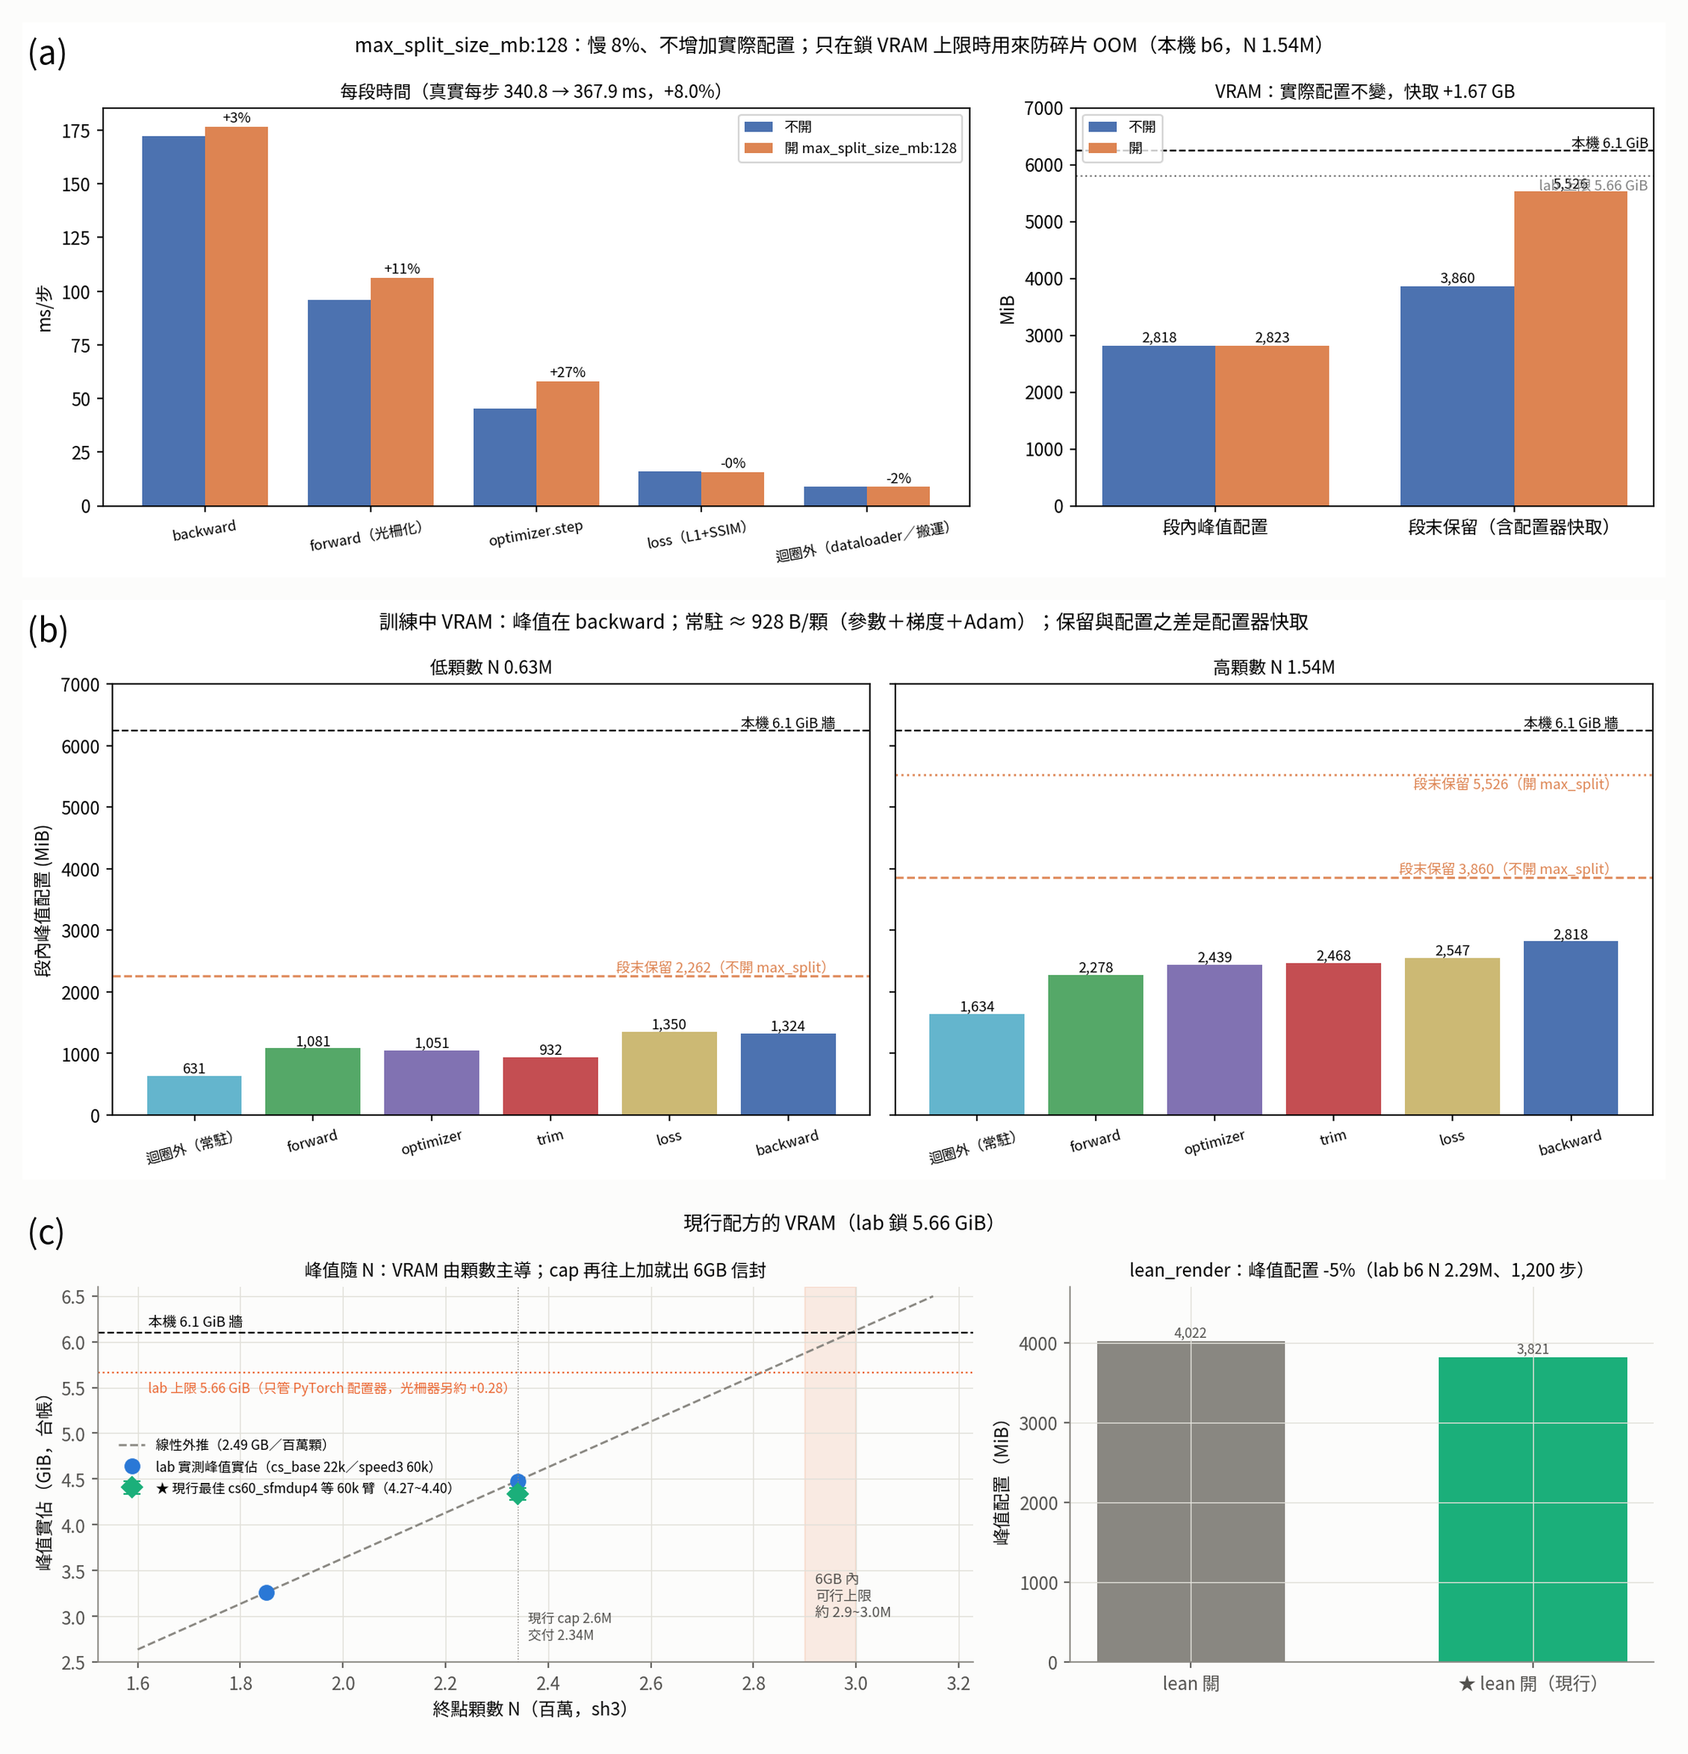
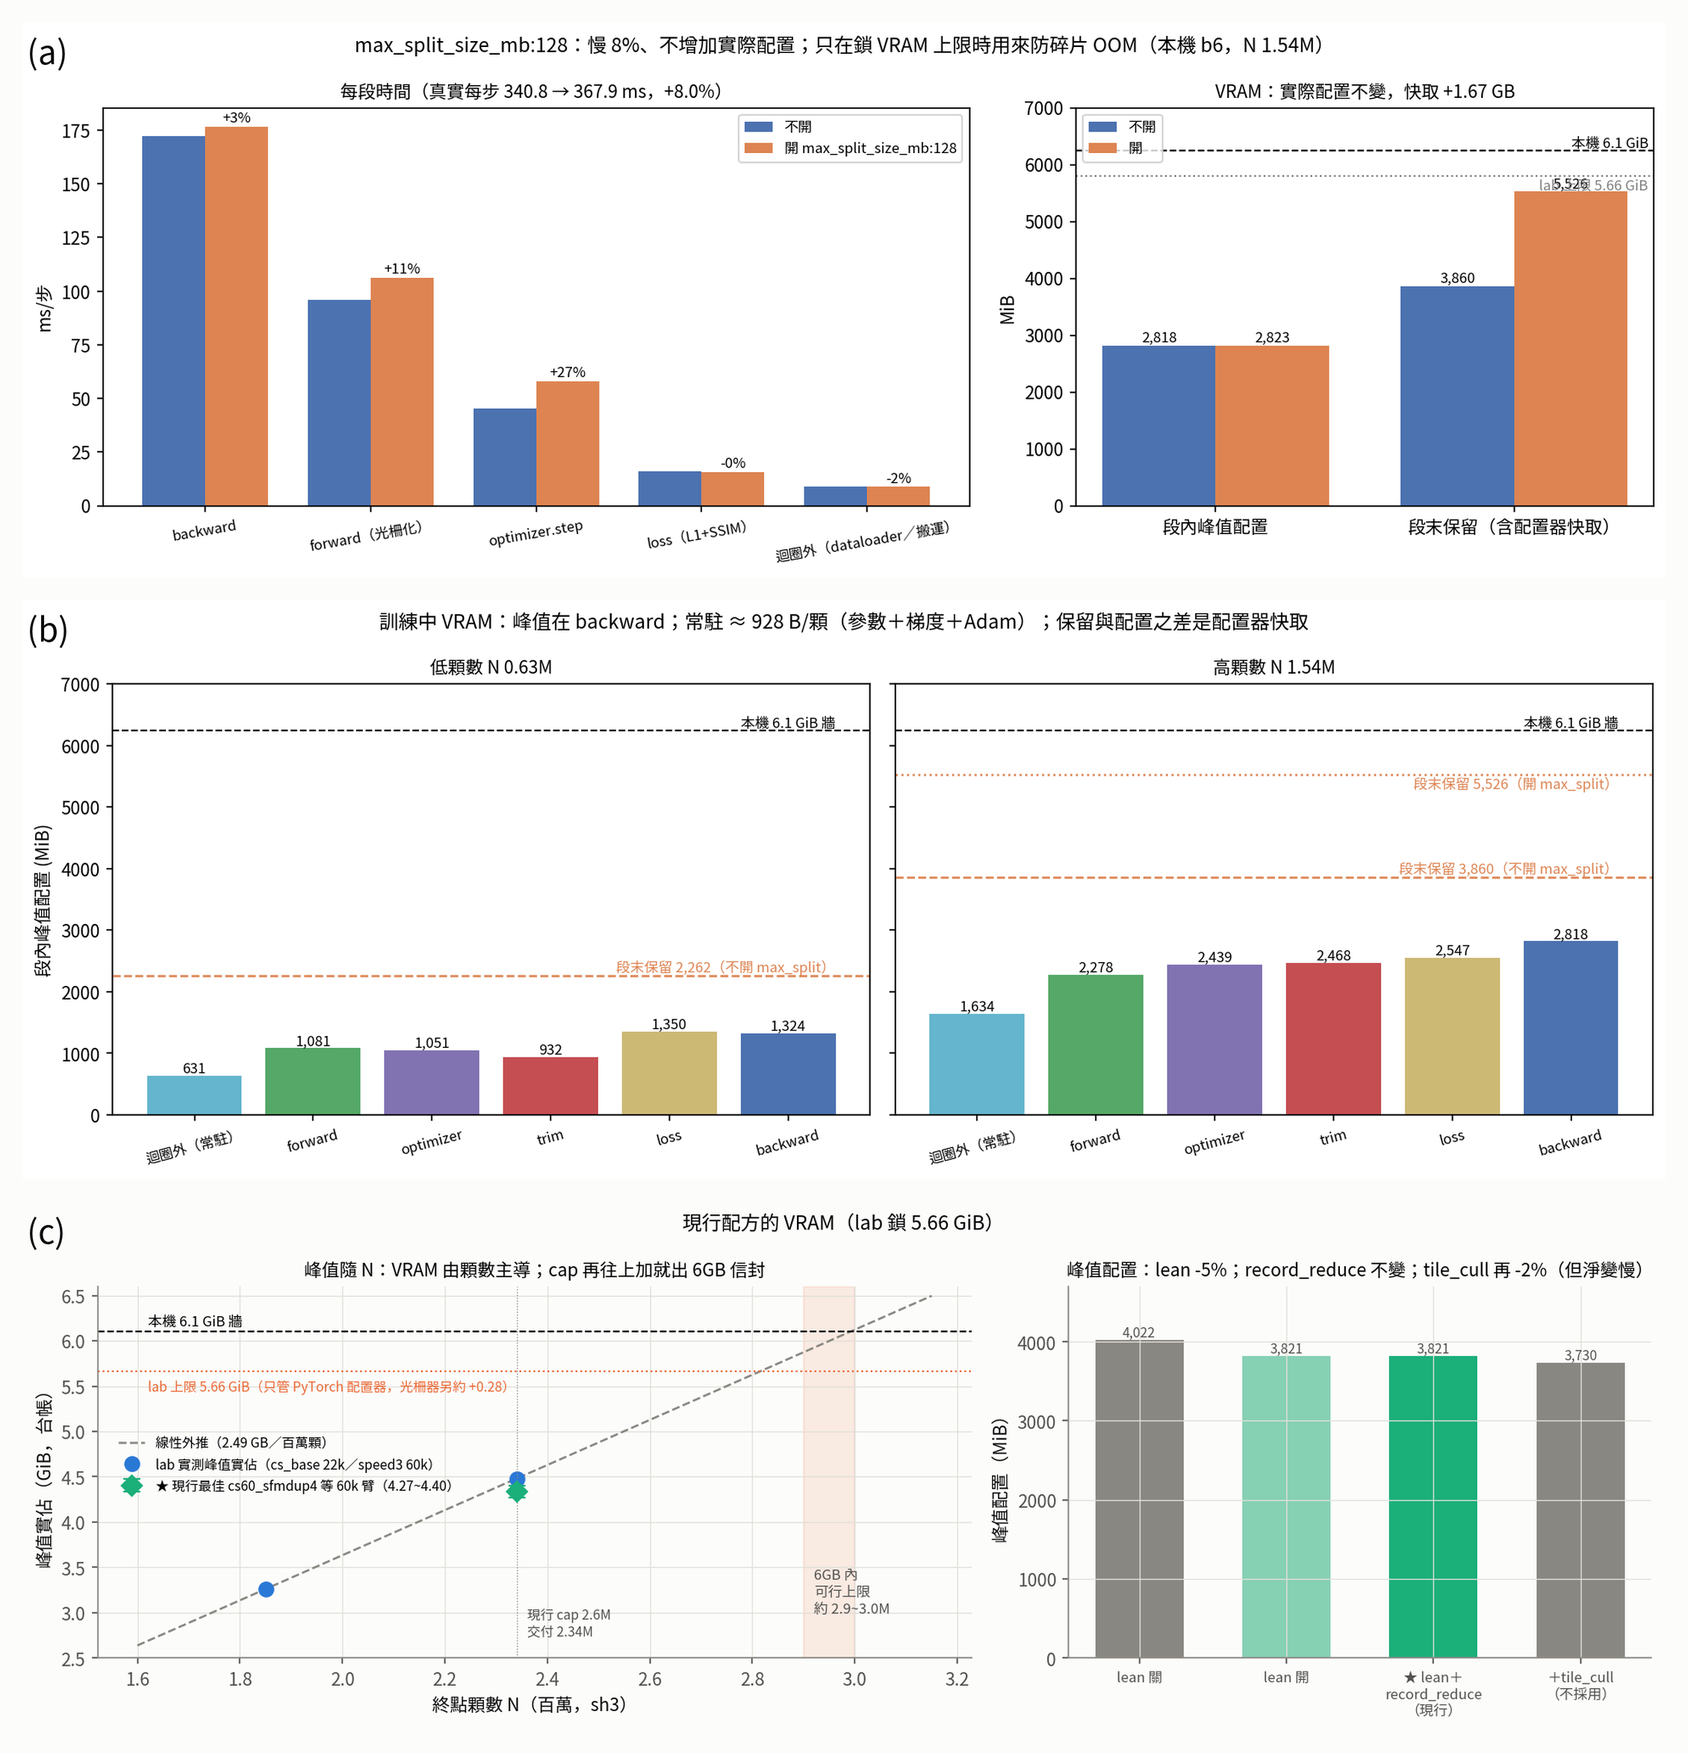
實驗分析：record_reduce／tile_cull 的實測補進 01、02、10、11
- 01(a)：新增「★ 現行：lean＋record_reduce」列（增生期每步 156.9 ms；trim 佔比 31% → 23%）
- 10(a)：四列（不開 lean／開 lean／★ lean＋record_reduce／＋tile_cull 不採用），標出增生期每步；
  標籤改成「不開／開 lean」（關／開縮小後難分辨）；10(b) 註明 kernel 拆解未含 record_reduce
- 02(c)：峰值配置加 record_reduce（不變）與 tile_cull（-2%）
- 11：tile_cull 實測 -35.7% 與上限 34.4% 相符，但淨變慢

Claude-Session: https://claude.ai/code/session_01ASvjmyPMC4F37W41o8s8Aq

diff --git a/tools/plot_analysis.py b/tools/plot_analysis.py
@@ -93,9 +93,10 @@ def n02_current(d):
     ax.legend(fontsize=7.5, loc="center left", bbox_to_anchor=(0.01, 0.52))
     ax.set_title("峰值隨 N：VRAM 由顆數主導；cap 再往上加就出 6GB 信封", fontsize=10)
     ax = axs[1]
-    barlabels(ax, ax.bar(["lean 關", "★ lean 開（現行）"], [4022, 3821], color=[MUTED, C3], width=0.55), fmt="{:,.0f}")
-    ax.set_ylim(0, 4700); ax.set_ylabel("峰值配置（MiB）")
-    ax.set_title("lean_render：峰值配置 -5%（lab b6 N 2.29M、1,200 步）", fontsize=10)
+    barlabels(ax, ax.bar(["lean 關", "lean 開", "★ lean＋\nrecord_reduce\n（現行）", "＋tile_cull\n（不採用）"],
+                         [4022, 3821, 3821, 3730], color=[MUTED, "#86d0b4", C3, MUTED], width=0.6), fmt="{:,.0f}")
+    ax.set_ylim(0, 4700); ax.set_ylabel("峰值配置（MiB）"); ax.tick_params(axis="x", labelsize=8)
+    ax.set_title("峰值配置：lean -5%；record_reduce 不變；tile_cull 再 -2%（但淨變慢）", fontsize=10)
     fig.suptitle("現行配方的 VRAM（lab 鎖 5.66 GiB）", fontsize=11)
     save(fig, d, "n02_current.png")
 
@@ -193,22 +194,25 @@ def n09_official_blocks(d):
 
 def n10_lean_loop(d):
     segs = ["backward", "forward", "週期 trim\n(1 次/1000 步窗)", "optimizer", "迴圈外", "loss", "其他"]
-    off = [84.85, 36.69, 27.87, 15.15, 8.00, 5.02, 3.33]
-    on = [68.64, 21.13, 27.59, 15.15, 8.03, 5.05, 3.32]
+    rows = [  # (段落, 名稱, 真實步 ms（不含 trim）, 每次 trim s)
+        ([84.85, 36.69, 27.87, 15.15, 8.00, 5.02, 3.33], "不開 lean（10-02）", 152.30, 27.87),
+        ([68.64, 21.13, 27.59, 15.15, 8.03, 5.05, 3.32], "開 lean（10-02）", 120.54, 27.59),
+        ([68.75, 21.15, 17.97, 15.14, 8.02, 5.06, 2.79], "★ 開 lean＋record_reduce（現行，10-03）", 120.69, 17.97),
+        ([66.62, 27.59, 18.08, 15.14, 8.02, 5.05, 2.88], "＋tile_cull（不採用，10-03）", 124.96, 18.08)]
     cols = ["#4C72B0", "#55A868", "#C44E52", "#8172B2", "#64B5CD", "#CCB974", "#B0B0B0"]
-    fig, ax = plt.subplots(figsize=(11, 3.4))
-    for i, (row, nm, real) in enumerate([(off, "lean 關", 152.30), (on, "lean 開", 120.54)]):
+    fig, ax = plt.subplots(figsize=(11.5, 4.6))
+    for i, (row, nm, real, trim_s) in enumerate(rows):
         left = 0
         for v, c, s in zip(row, cols, segs):
             ax.barh(i, v, left=left, color=c, edgecolor="white", label=s if i == 0 else None)
             if v > 8:
                 ax.text(left + v / 2, i, f"{v:.0f}", ha="center", va="center", fontsize=8, color="white")
             left += v
-        ax.text(left + 2, i, f"段落和 {left:.0f} ms／真實每步 {real:.1f} ms", va="center", fontsize=8.5)
-    ax.set_yticks([0, 1]); ax.set_yticklabels(["lean 關", "★ lean 開（現行）"]); ax.invert_yaxis()
-    ax.set_xlim(0, 230); ax.set_xlabel("每步 wall ms（逐段同步計時；b6、N 2.29M、增生期 1,200 步含 1 次 trim）")
-    ax.legend(ncol=7, fontsize=7.5, loc="upper center", bbox_to_anchor=(0.5, -0.32))
-    ax.set_title("lean_render 真實訓練迴圈：每步 152.3 -> 120.5 ms（-20.9%）；trim 幾乎沒變", fontsize=10.5)
+        ax.text(left + 2, i, f"段落和 {left:.0f}／真實步 {real:.1f}（不含 trim）／增生期每步 {real + trim_s * 2:.0f} ms", va="center", fontsize=8)
+    ax.set_yticks(range(len(rows))); ax.set_yticklabels([r[1] for r in rows], fontsize=8.5); ax.invert_yaxis()
+    ax.set_xlim(0, 285); ax.set_xlabel("每步 wall ms（逐段同步計時；b6、N 2.29M、@14,999 起 1,200 步含 1 次 trim；增生期每步＝真實步＋每次 trim÷500）")
+    ax.legend(ncol=7, fontsize=7.5, loc="upper center", bbox_to_anchor=(0.5, -0.2))
+    ax.set_title("真實訓練迴圈：lean 每步 -20.9%；record_reduce 每次 trim -35%（增生期每步 -10.9%）；tile_cull 讓 forward +30% => 不採用", fontsize=10)
     save(fig, d, "n10_lean_loop.png")
 
 
@@ -220,8 +224,8 @@ def n10_kernels(d):
     x = np.arange(len(cats)); wd = 0.38
     fig, axs = plt.subplots(1, 2, figsize=(14, 4.2), gridspec_kw={"width_ratios": [3, 1.3]})
     ax = axs[0]
-    barlabels(ax, ax.bar(x - wd / 2, off, wd, color=MUTED, label="lean 關"), fmt="{:.1f}")
-    barlabels(ax, ax.bar(x + wd / 2, on, wd, color=C3, label="★ lean 開（現行）"), fmt="{:.1f}")
+    barlabels(ax, ax.bar(x - wd / 2, off, wd, color=MUTED, label="不開 lean"), fmt="{:.1f}")
+    barlabels(ax, ax.bar(x + wd / 2, on, wd, color=C3, label="開 lean（未含 record_reduce）"), fmt="{:.1f}")
     ax.set_xticks(x); ax.set_xticklabels(cats, fontsize=8.5); ax.set_ylabel("kernel 時間（ms/步，含 1 台相機的 record）")
     ax.legend(fontsize=8)
     ax.set_title("kernel 拆解（profiler，b6 @14,999，N 2.6M；已扣掉 autograd 包裝列的重複計時）", fontsize=10)
@@ -243,8 +247,9 @@ def n11_tiles(d):
     for nm, a, b, c in [("b6", [41.5, 36.3, 34.4], [30.0, 30.1, 20.2], C1), ("b13", [35.9, 31.3, 30.3], [36.1, 39.9, 30.6], C2)]:
         ax.plot(steps, a, "-o", color=c, lw=2, label=f"{nm} ① tile 內沒有任何像素 alpha≥1/255")
         ax.plot(steps, b, "--s", color=c, lw=1.5, label=f"{nm} ② tile 已飽和後才輪到")
-    ax.set_xlabel("訓練步數（千）"); ax.set_ylabel("佔 binning 配對（%）"); ax.set_ylim(0, 50); ax.legend(fontsize=7.5)
-    ax.set_title("可剃掉的配對（渲染逐位元不變）", fontsize=10)
+    ax.plot([60], [35.7], "*", color=C3, ms=15, mec="k", mew=0.6, label="b6 tile_cull 實測 -35.7%（6 視角）")
+    ax.set_xlabel("訓練步數（千）"); ax.set_ylabel("佔 binning 配對（%）"); ax.set_ylim(0, 50); ax.legend(fontsize=7)
+    ax.set_title("可剃掉的配對：tile_cull 實測與上限相符（但淨變慢，`10` §6）", fontsize=10)
     ax = axs[1]
     thr = [0.005, 0.01, 0.02, 0.03, 0.05]
     for nm, t, w, c in [("b6", [2.4, 15.3, 61.7, 85.5, 95.5], [0.8, 12.3, 62.4, 88.2, 97.5], C1),

diff --git a/tools/plot_resource_report.py b/tools/plot_resource_report.py
@@ -51,9 +51,11 @@ rows = [
     ("本機 4050 b6 高顆數\nN 1.54M", dict(backward=172.05, forward=95.79, trim=75512.24/500, optimizer=45.51, loss=15.91, loopout=9.00, other=2.66)),
     ("本機 4050 b6 高顆數\n＋max_split_size_mb:128", dict(backward=176.60, forward=106.19, trim=76719.21/500, optimizer=57.91, loss=15.87, loopout=8.82, other=2.69)),
     ("lab 3090 [solo] b6\nN 2.29M　lean 關", dict(backward=84.85, forward=36.69, trim=27875/500, optimizer=15.15, loss=5.02, loopout=8.00, other=3.33)),
-    ("★ 現行：lab 3090 [solo] b6\nN 2.29M　lean 開", dict(backward=68.64, forward=21.13, trim=27589/500, optimizer=15.15, loss=5.05, loopout=8.03, other=3.32)),
+    ("lab 3090 [solo] b6\nN 2.29M　lean 開", dict(backward=68.64, forward=21.13, trim=27589/500, optimizer=15.15, loss=5.05, loopout=8.03, other=3.32)),
+    # 10-03 speed2_check：lean＋record_reduce（同起點 1,200 步；logs/speed2_check_1003_0604.log）
+    ("★ 現行：lab 3090 [solo] b6\nN 2.29M　lean＋record_reduce", dict(backward=68.75, forward=21.15, trim=17974.84/500, optimizer=15.14, loss=5.06, loopout=8.02, other=2.79)),
 ]
-fig, axes = plt.subplots(1, 2, figsize=(14, 5.8), gridspec_kw={"width_ratios": [3, 2]})
+fig, axes = plt.subplots(1, 2, figsize=(14, 6.6), gridspec_kw={"width_ratios": [3, 2]})
 for ax, pct in zip(axes, (False, True)):
     for i, (name, d) in enumerate(rows[::-1]):
         tot = sum(d.values()); left = 0
@@ -69,7 +71,7 @@ for ax, pct in zip(axes, (False, True)):
     ax.set_xlabel("佔每步時間 (%)" if pct else "每步時間 (ms，增生期)")
     if pct: ax.set_yticklabels([]); ax.set_xlim(0, 100)
 axes[0].legend(loc="upper center", bbox_to_anchor=(0.8, -0.14), ncol=4, fontsize=8, frameon=False)
-fig.suptitle("圖 1　訓練時間花在哪：運算（backward／forward／trim）為主，搬運只佔約 2%\n現行（lab、lean 開）增生期：backward 39%、週期 trim 31%（以真實每步為分母約 37%；下一個目標）、forward 12%", fontsize=12)
+fig.suptitle("圖 1　訓練時間花在哪：運算（backward／forward／trim）為主，搬運只佔約 2%\n現行（lab、lean＋record_reduce）增生期每步約 157 ms：backward 44%、週期 trim 23%（lean 時 31%）、forward 13%、optimizer 10%", fontsize=12)
 save(fig, "fig1_time_breakdown.png")
 
 # ── 圖 2：max_split_size_mb:128 在真實迴圈上的代價 ──

diff --git a/紀錄/實驗分析/01_訓練時間組成.md b/紀錄/實驗分析/01_訓練時間組成.md
@@ -14,8 +14,8 @@
 
 ## 結論
 
-- **現行（10-03，lab 3090、lean 開）**：增生期每步（逐段同步和，trim 按 500 步攤平）約 177 ms —— backward 39%／週期 trim 31%（以真實每步為分母約 37%）／forward 12%／optimizer 9%。
-  => 下一個目標是 trim 的 record pass（`record_reduce`、`tile_cull` 的驗證已排，見 `10`）。
+- **現行（10-03，lab 3090、lean＋record_reduce）**：增生期每步（逐段同步和，trim 按 500 步攤平）約 157 ms —— backward 44%／週期 trim 23%（lean 時 31%）／forward 13%／optimizer 10%。
+  record_reduce 讓每次 trim 27.6 → 18.0 s；tile_cull 淨變慢不採用（`10` §6）。下一個大頭是 backward。
 - **慢的是運算，不是搬運**：迴圈外（dataloader／搬運／Lightning／MCMC 噪聲 hook）只佔每步 **2.0~2.2%**。
 - 最貴的段落：backward 34~43%、**週期 trim 27~31%（增生期，按 500 步攤平；成本與相機數成正比）**、forward 14~23%、optimizer 6~11%。
 - lab 三槽平行時單跑與本機獨佔相近（22k：2.6~2.9 h vs 2.76 h；60k 只有 lab 的數字：5.0~8.5 h）；lab 的價值是**吞吐量**（一次 3 個）。
@@ -172,9 +172,11 @@ lab 單跑不快的原因：① 三個訓練共用一張 GPU ② 鎖 5.66 GiB＋
 | 本機 4050 b6 N 1.54M | 172.05 | 95.79 | 151.02 | 45.51 | 15.91 | 9.00 | 2.66 | 491.9 |
 | 本機 4050 b6 N 1.54M＋max_split | 176.60 | 106.19 | 153.44 | 57.91 | 15.87 | 8.82 | 2.69 | 521.5 |
 | lab 3090 [solo] b6 N 2.29M lean 關 | 84.85 | 36.69 | 55.75 | 15.15 | 5.02 | 8.00 | 3.33 | 208.8 |
-| **★ 現行：lab 3090 [solo] b6 N 2.29M lean 開** | 68.64 | 21.13 | 55.18 | 15.15 | 5.05 | 8.03 | 3.32 | **176.5** |
+| lab 3090 [solo] b6 N 2.29M lean 開 | 68.64 | 21.13 | 55.18 | 15.15 | 5.05 | 8.03 | 3.32 | 176.5 |
+| **★ 現行：lab 3090 [solo] b6 N 2.29M lean＋record_reduce** | 68.75 | 21.15 | 35.95 | 15.14 | 5.06 | 8.02 | 2.79 | **156.9** |
 
-lab 兩列來自 `scripts/lab/task_lean_check.sh`（`10`；@14,999 起 1,200 步、鎖 5.66＋max_split）：trim 每次 27,875／27,589 ms ÷ 500。
+lab 三列：lean 關／開來自 `scripts/lab/task_lean_check.sh`（10-02），lean＋record_reduce 來自 `scripts/lab/task_speed2_check.sh`（10-03，`logs/speed2_check_1003_0604.log`）；
+都是 @14,999 起 1,200 步、鎖 5.66＋max_split；trim 每次 27,875／27,589／17,975 ms ÷ 500。
 ⚠ 這裡的「合計」是逐段同步計時的和；真實每步（不同步、含重疊）lean 關／開為 152.3／120.5 ms（trim 按 1,000 步取樣窗攤平），兩種分母不可混用。
 
 **隨 N 的縮放（新年代 0.63M -> 1.54M，N x2.45）**：backward x1.73／forward x3.04／optimizer x3.17／trim 每次 x2.44／loss x1.02（逐像素固定成本）

diff --git a/紀錄/實驗分析/02_VRAM與配置器.md b/紀錄/實驗分析/02_VRAM與配置器.md
@@ -10,11 +10,11 @@
 |---|---|---|
 | (a) | `max_split_size_mb:128` 在真實迴圈上的代價（時間、配置、保留） | §1 |
 | (b) | 訓練中各段的 VRAM 峰值與常駐 | §2 |
-| (c) | 現行配方：峰值隨 N 的斜率與 6GB 可行上限（標出現行最佳 cs60_sfmdup4）、lean 的峰值配置 | §3.3b、`10` §1 |
+| (c) | 現行配方：峰值隨 N 的斜率與 6GB 可行上限（標出現行最佳 cs60_sfmdup4）；lean／record_reduce／tile_cull 的峰值配置 | §3.3b、`10` §1／§6 |
 
 ## 結論
 
-- **現行（10-03）**：現行最佳 cs60_sfmdup4 等 60k 臂（N 2.34M）峰值實佔 **4.27~4.40 GiB**；峰值約 2.49 GB／百萬顆 => 6GB 內可行上限約 **2.9~3.0M 顆**；lean 再讓峰值配置 -5%（4,022 → 3,821 MiB）。
+- **現行（10-03）**：現行最佳 cs60_sfmdup4 等 60k 臂（N 2.34M）峰值實佔 **4.27~4.40 GiB**；峰值約 2.49 GB／百萬顆 => 6GB 內可行上限約 **2.9~3.0M 顆**；lean 再讓峰值配置 -5%（4,022 → 3,821 MiB）；record_reduce 不變（3,821）；tile_cull 再 -2%（3,730）但淨變慢、不採用。
 - VRAM 是**硬牆不是慢坡**：N 固定、只改餘裕時每步時間 0.999~1.001x 平到撞牆，`num_alloc_retries` 一路 0。
 - `max_split_size_mb:128`：真實迴圈 **+8.0%**，**段內峰值配置不變**、段末保留 **+1.67 GB**（配置器快取）。政策（使用者 09-17）：**鎖 VRAM 上限（lab 5.66）才開**；原生 6 GB 與官方線不開。
 - 峰值在 **backward**；常駐 ≈ **928 B/顆**（參數＋梯度＋Adam，SH 高階佔 77.6%）⇒ **VRAM 由 N 主導**；渲染成本（Load）主要是時間成本。

diff --git a/紀錄/實驗分析/11_逐配對工作量上限.md b/紀錄/實驗分析/11_逐配對工作量上限.md
@@ -9,13 +9,14 @@
 
 | 子圖 | 內容 | 對應本文 |
 |---|---|---|
-| 左 | ① 整個 tile 沒有任何像素 alpha≥1/255 的配對、② tile 已飽和後才輪到的配對（隨訓練步數） | §1 |
+| 左 | ① 整個 tile 沒有任何像素 alpha≥1/255 的配對、② tile 已飽和後才輪到的配對（隨訓練步數）；★＝tile_cull 實測 | §1 |
 | 中 | ③ 60k：各誤差門檻下「低誤差 tile 的比例」vs「它們佔的工作量比例」 | §2 |
 | 右 | ④ 30k 時低誤差的 (視角, tile) 到 60k 還低誤差／變差 1.5 倍以上的比例 | §3 |
 
 ## 結論
 
-- **現行（10-03）**：`tile_cull`（①）與 `record_reduce` 已實作、驗證已排；誤差引導抽樣排在它們之後。
+- **現行（10-03）**：`tile_cull`（①）實測配對 -35.7%（b6 60k、6 視角），與這裡量的上限 34.4% 相符，渲染逐位元相同；
+  但逐 tile 判斷本身讓 forward +30%、增生期每步淨 +2.9%（比只開 record_reduce）=> 現行實作不採用（`10` §6）。`record_reduce` 已採用。
 - **① 30~42% 的 binning 配對整個 tile 都沒有 alpha≥1/255 的像素** => StopThePop 式的逐 tile 精確剔除可以去掉它們，渲染逐位元不變（`tile_cull` 已實作、驗證已排）。
 - **② 20~40% 的配對在 tile 已經全部飽和後才輪到**：forward 已會整塊跳過，backward 仍逐輪載入 => Taming §4.1 的 last-contributor 略過可以省。
 - 每個像素的迴圈只有 **17~22.5%** 真的有混合，其餘是 alpha<1/255 或幾何不相交。

diff --git a/紀錄/實驗分析/10_速度優化_lean與kernel拆解.md b/紀錄/實驗分析/10_速度優化_lean與kernel拆解.md
@@ -9,8 +9,8 @@
 
 | 面板 | 內容 | 對應本文 |
 |---|---|---|
-| (a) | 真實訓練迴圈逐段時間：lean 關 vs 開 | §1 |
-| (b) 左 | kernel 拆解（profiler）：逐配對的光柵 kernel vs 逐顆／逐像素 | §2 |
+| (a) | 真實訓練迴圈逐段時間：不開 lean／開 lean（10-02）／★ 開 lean＋record_reduce（現行）／＋tile_cull（不採用）（10-03） | §1、§6 |
+| (b) 左 | kernel 拆解（profiler）：逐配對的光柵 kernel vs 逐顆／逐像素（⚠ 沒重量 record_reduce） | §2 |
 | (b) 右 | optimizer.step：foreach（現行）vs fused | §3 |
 
 ## 結論
